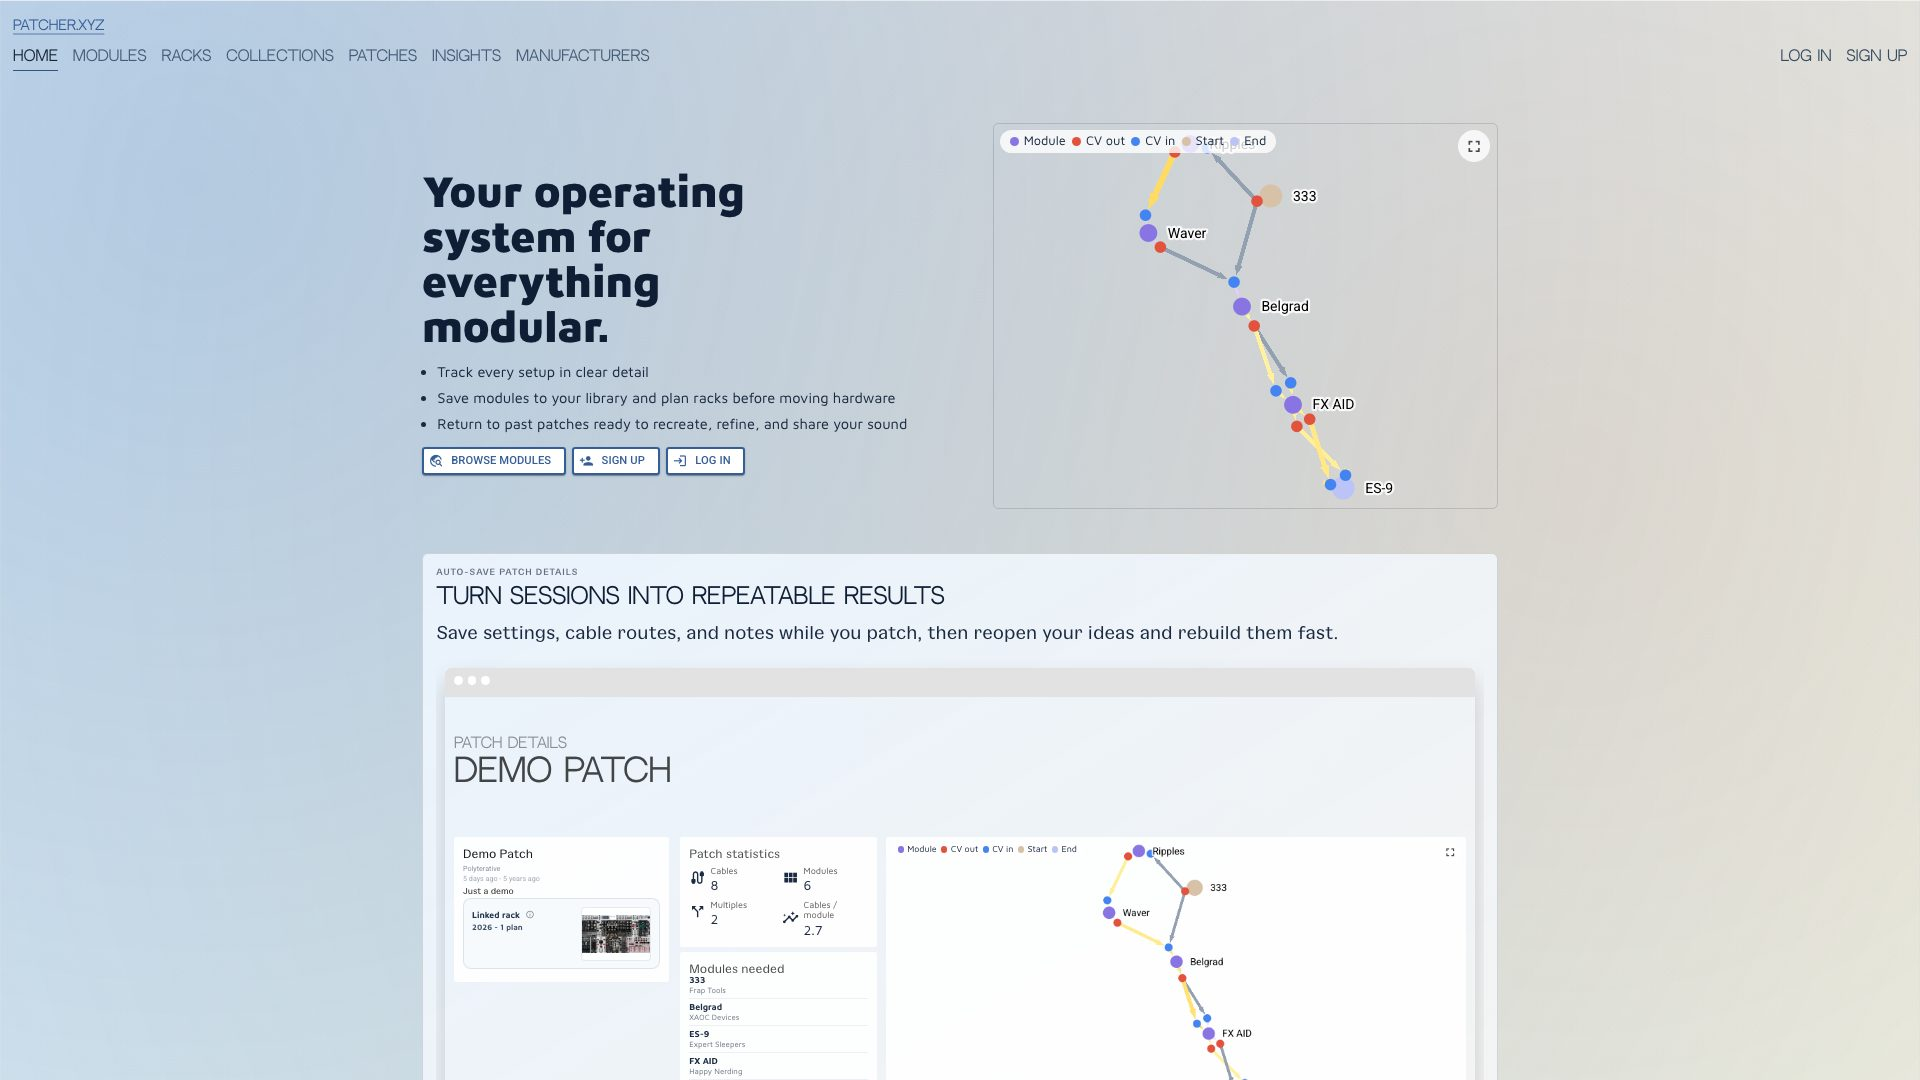
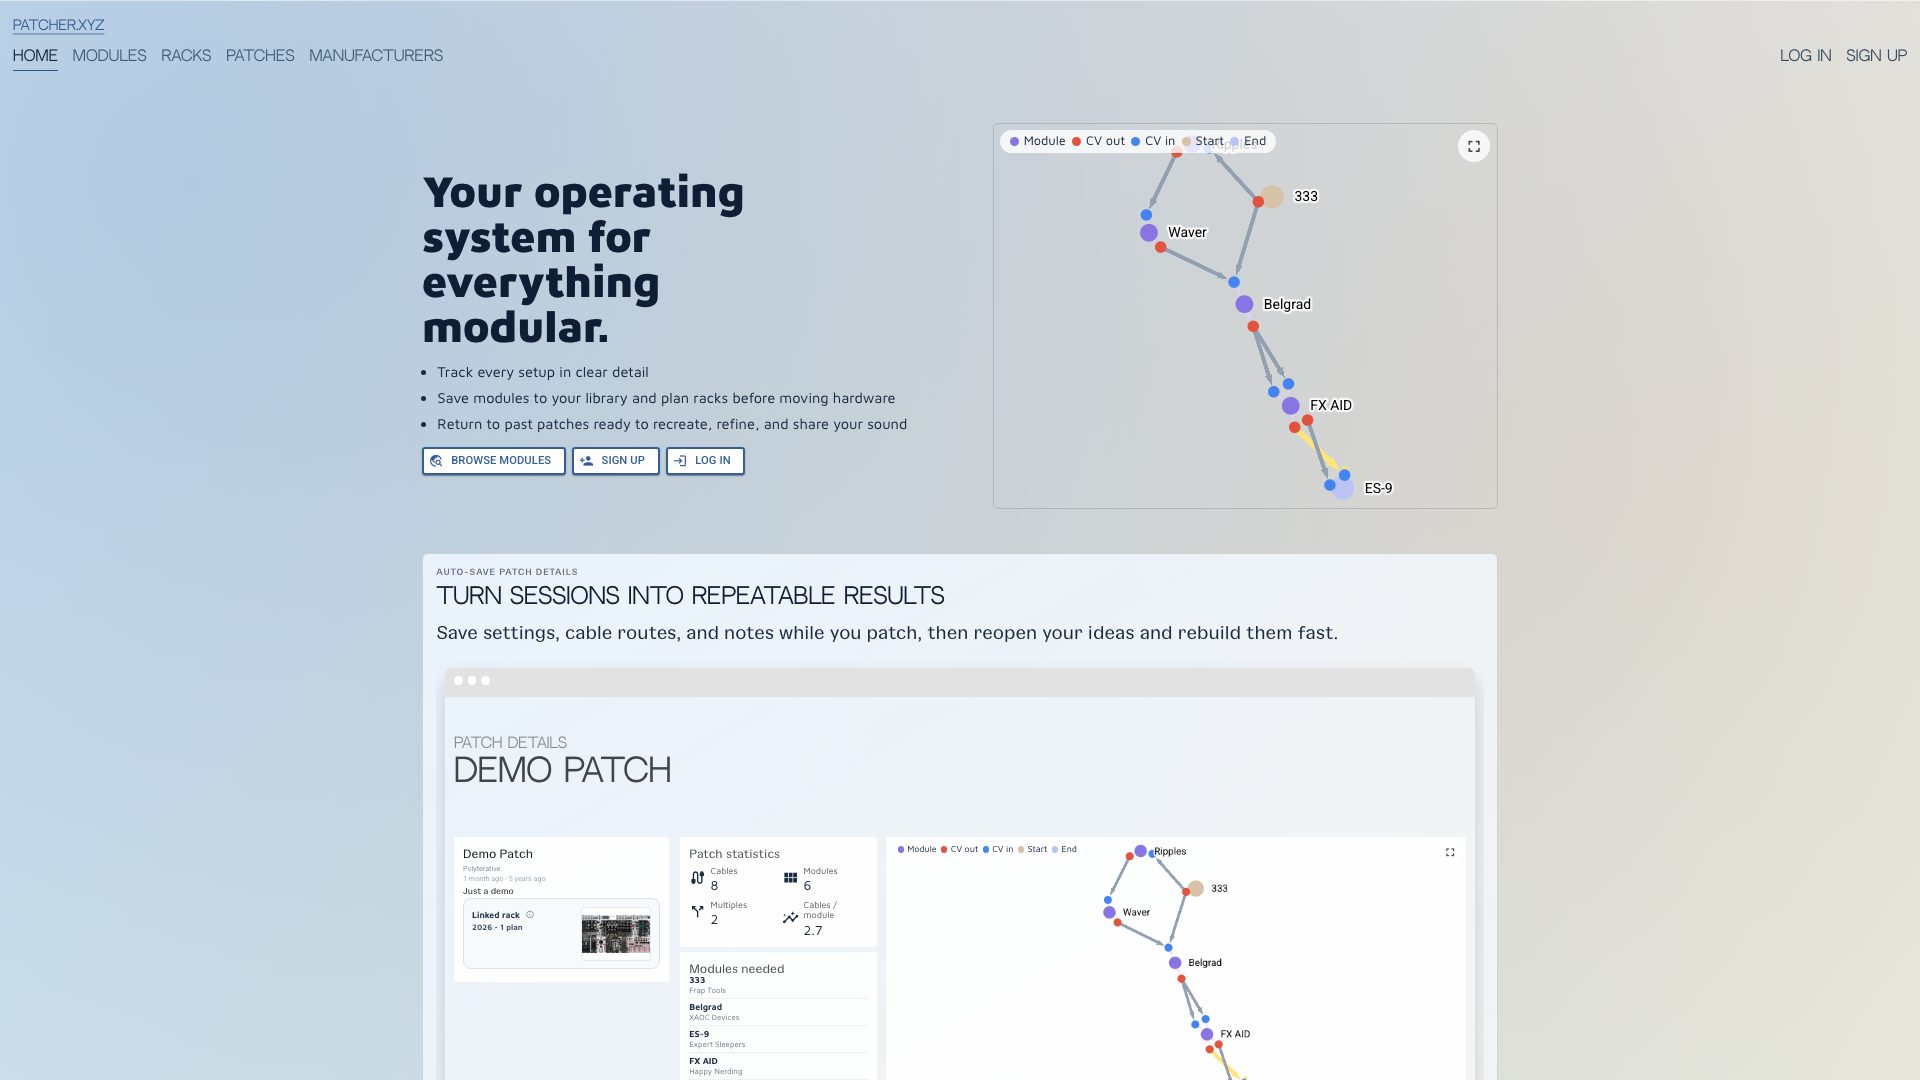
test(e2e): capture reviewed home screenshot
(cherry picked from commit 834919ffe343994426efb281d2c551dc5dee0627)

diff --git a/e2e/screenshots/auth-major-area-screenshots.spec.ts b/e2e/screenshots/auth-major-area-screenshots.spec.ts
@@ -133,45 +133,35 @@ async function getPublicConnectedPatchId(): Promise<number> {
   return publicConnectedPatchIdPromise;
 }
 
-async function setHomeHeroPatch(page: Page, patchId: number): Promise<void> {
-  await page.waitForTimeout(1_200);
-  await page.waitForFunction((resolvedPatchId: number) => {
-    const ng = (window as {ng?: {getComponent?: (element: Element) => any}}).ng;
-    if (!ng?.getComponent) {
-      return false;
-    }
-
-    const heroRoot = document.querySelector('app-home-experience-hero');
-    if (!heroRoot) {
-      return false;
-    }
-
-    const component = ng.getComponent(heroRoot);
-    component?.patchDetailDataService?.updateSinglePatchData$?.next(resolvedPatchId);
-    return true;
-  }, patchId, {timeout: 20_000});
-}
-
-async function revealHomeHeroGraph(page: Page): Promise<boolean> {
-  return page.waitForFunction(
+async function waitForHomeHeroGraph(page: Page): Promise<void> {
+  const rendered = await page.waitForFunction(
     () => {
-      const ng = (window as {ng?: {getComponent?: (element: Element) => any}}).ng;
       const patchGraphHost = document.querySelector('app-home-experience-hero .patch-graph-shell app-patch-graph');
-      if (!ng?.getComponent || !patchGraphHost) {
+      if (!(patchGraphHost instanceof HTMLElement)) {
         return false;
       }
 
-      const patchGraphComponent = ng.getComponent(patchGraphHost);
-      const hasGraphData = (patchGraphComponent?.nodes$?.value?.length ?? 0) > 0;
-      if (!hasGraphData) {
+      const graph = patchGraphHost.querySelector('lib-graph');
+      if (!(graph instanceof HTMLElement)) {
         return false;
       }
 
-      return !patchGraphHost.textContent?.includes('Building graph...');
+      const graphBox = graph.getBoundingClientRect();
+      return graphBox.width > 0
+        && graphBox.height > 0
+        && !patchGraphHost.textContent?.includes('Building graph...')
+        && !patchGraphHost.textContent?.includes('No connections in this patch');
     },
     undefined,
     {timeout: 20_000}
   ).then(() => true).catch(() => false);
+
+  if (!rendered) {
+    throw new BlockedScreenshotError('The production home hero did not render a connected patch graph.', {
+      selectionQuery: 'DOM: app-home-experience-hero .patch-graph-shell app-patch-graph lib-graph',
+      observed: 'No visible lib-graph before timeout'
+    });
+  }
 }
 
 async function captureViewport(
@@ -347,18 +337,16 @@ async function waitForScreenshotReady(page: Page, focusSelector: string, readySc
 }
 
 async function prepareHome(page: Page): Promise<void> {
-  const patchId = await getPublicConnectedPatchId();
   await page.goto('/home');
   await expect(page).toHaveURL(/\/home/, {timeout: 20_000});
   await expect(page.locator('div.home-page h1').first()).toBeVisible({timeout: 20_000});
   await expect(page.getByRole('link', {name: /sign up/i}).first()).toBeVisible({timeout: 20_000});
   await expect(page.getByRole('link', {name: /log in/i}).first()).toBeVisible({timeout: 20_000});
   await expect(page.getByRole('link', {name: /my profile/i})).toHaveCount(0);
-  await setHomeHeroPatch(page, patchId);
   await expect(page.locator('app-home-experience-hero .patch-graph-shell app-patch-graph').first()).toBeVisible({
     timeout: 20_000
   });
-  await revealHomeHeroGraph(page);
+  await waitForHomeHeroGraph(page);
 }
 
 async function prepareModuleBrowser(page: Page): Promise<void> {

diff --git a/internaldocs/workflow/plans/docs-screenshot-pipeline-repair.md b/internaldocs/workflow/plans/docs-screenshot-pipeline-repair.md
@@ -44,7 +44,9 @@ Repair the in-repo Patcher docs screenshot pipeline so the seven docs-facing cap
 - 2026-07-23 — Blocker: This worktree has no `.env`, and inherited environment variables are missing `E2E_TEST_EMAIL`, `E2E_TEST_PASSWORD`, and `SUPABASE_ANON_KEY`. Per AGENTS.md, these credentials must live only in the gitignored root `.env`; without them, the seven required captures cannot run and no image-view inspection can proceed. No backend data was read or mutated.
 - 2026-07-23 — R1 adoption: Added typed/stable target registry, `--target=<id>` runner flow, automated 1:1 registry/title proof, `assertProductionShell(page)` for each publication gate, `.blocked/<id>.txt` evidence support, and R1's `docs-screenshot@patcher.xyz` / `Docs screenshot account` labels.
 - 2026-07-23 — R1 validation: `node --test e2e/screenshots/__tests__/*.test.mjs scripts/dev/sync-docs-screenshots.test.mjs` passed 6/6. `node scripts/ops/run-e2e-screenshots.mjs --target=does-not-exist` failed before credential gating with `Unknown screenshot target "does-not-exist"`. `E2E_TEST_EMAIL=dummy@example.invalid E2E_TEST_PASSWORD=dummy pnpm exec playwright test --config=playwright.screenshots.config.ts --project=chromium-screenshots --list` listed 10 registry-titled captures plus the production nav guard. `pnpm test:e2e:screenshots -- --target=home` skipped safely due missing credentials. `pnpm lint` exited 0 with existing warnings.
+- 2026-07-23 — Capture unblock: After credentials were populated, the first gate exposed two runner bugs before images could be produced: `generate-env.js` needed the repo's existing non-secret Patcher Supabase URL default when `.env` supplies only the anon key, and Playwright target selection needed config-owned `testMatch` plus `.*captures <title>$` grep because explicit file paths and fully anchored titles found zero tests.
+- 2026-07-23 — Home gate hardening: Removed the home screenshot helper's production-incompatible `window.ng` component mutation/readiness path. The gate now waits on the production-rendered home hero `lib-graph` DOM and writes a blocked marker if the existing production default content cannot render a connected graph.
 
 ## Manual screenshot observations
 
-Pending; blocked before `01-home.jpg` because screenshot credentials are unavailable in this worktree.
+- `01-home.jpg` (`home`) — nav: production header shows only Home, Modules, Racks, Patches, Manufacturers, with Home active and no Collections/Insights/Marketplace/Cool UI. Identity: unauthenticated shell shows Log in and Sign up; no E2E account identity is visible. Content/framing: 1920x1080 desktop crop cleanly frames the home hero, CTA buttons, rendered patch graph, and the top of the proof section; graph labels and demo patch content are readable without loading overlays. Verdict: pass.
